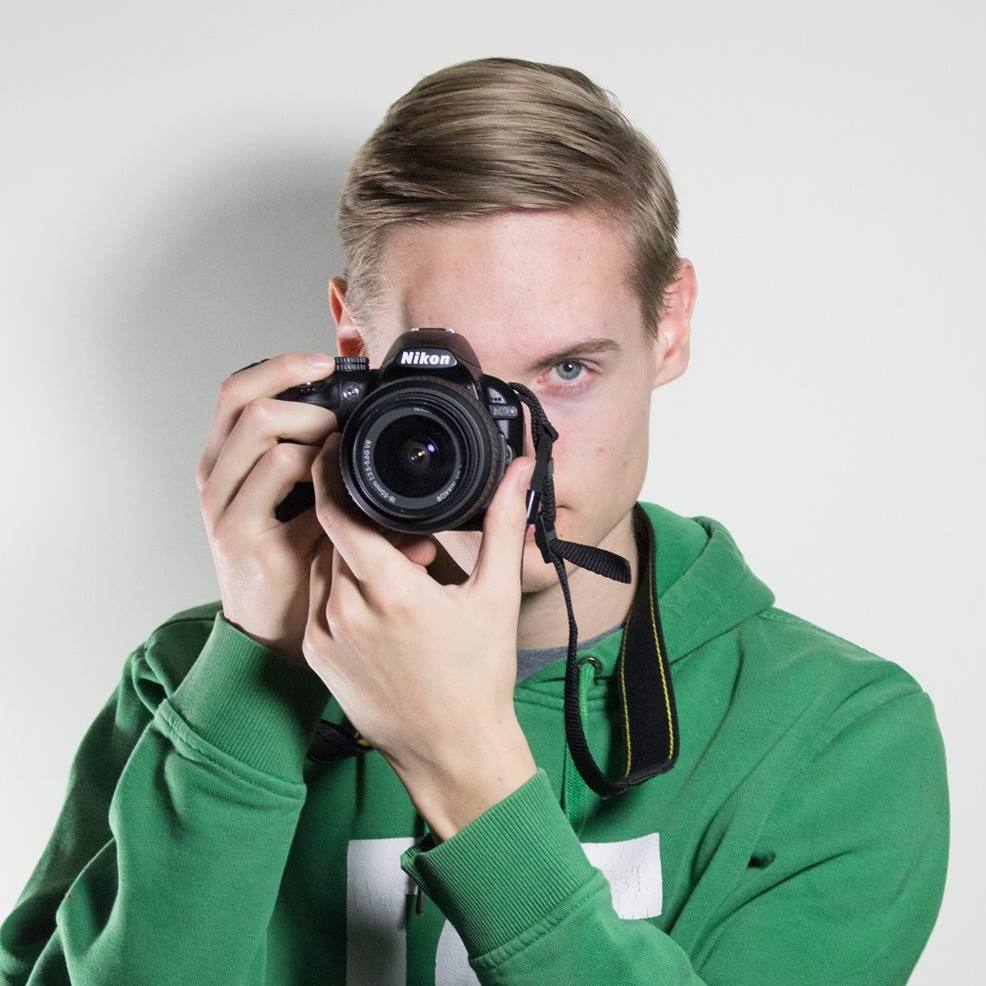
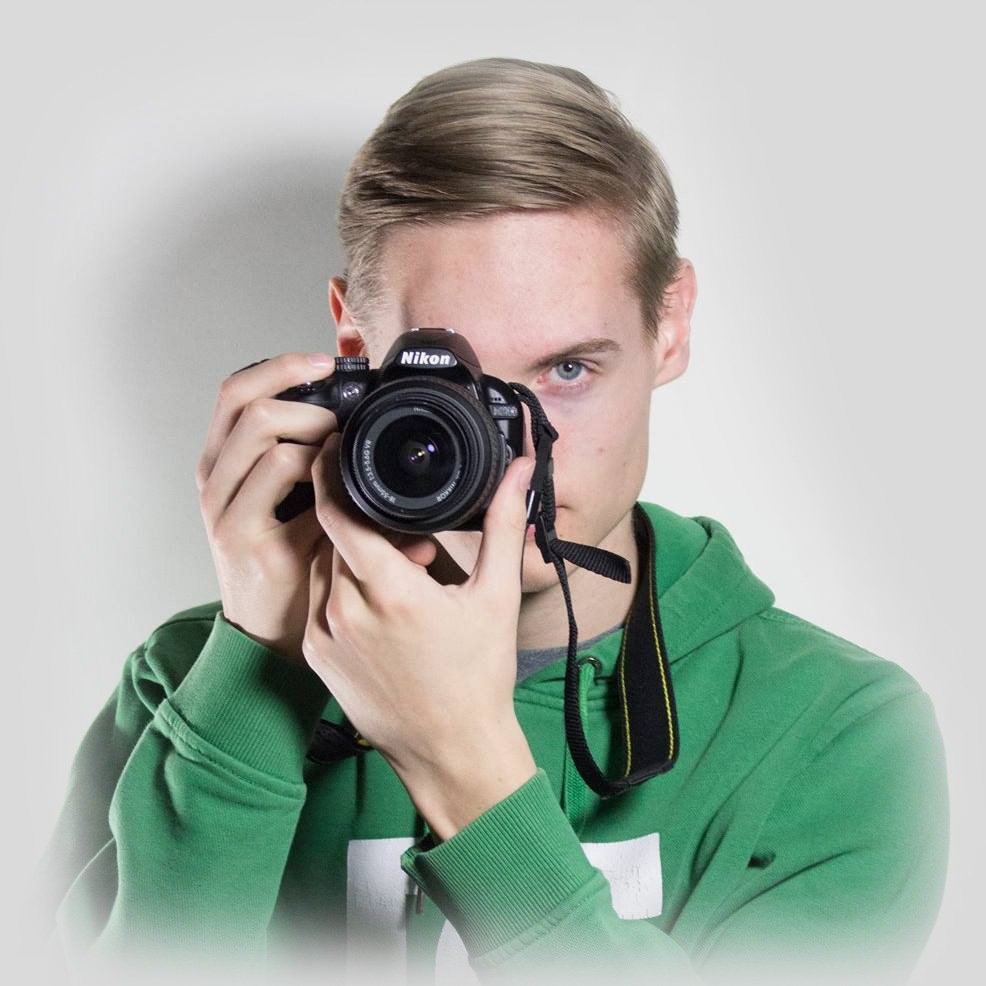
added footer and styling

Changed region(s): [[0.0, 0.6389, 0.9736, 1.0], [0.3955, 0.0609, 0.6085, 0.1217]]

diff --git a/src/partials/subm.vue b/src/partials/subm.vue
@@ -1,10 +1,62 @@
 <template>
   <footer>
-    <div class="left">
-      <img src="../assets/img/profile.jpeg">
-    </div>
-    <div class="right">
-      content here woo
+    <div class="footer-content">
+      <div class="left">
+        <img src="../assets/img/profile.png">
+      </div>
+      <div class="right">
+        <div class="social">
+          <div class="media"><a href="https://github.com/MrMan2247"><img src="../assets/img/github-icon.svg"/></a></div>
+          <div class="media"><a href="https://ca.linkedin.com/in/bailey-cassel-59804481"><img src="../assets/img/LinkedIn_Logo.svg"/></a></div>
+          <div class="media"><a href="https://twitter.com/MrMan2247?lang=en"><img src="../assets/img/twitter-icon.svg"/></a></div>
+        </div>
+      </div>
+      © Bailey Cassel
     </div>
   </footer>
 </template>
+
+<style lang="scss">
+  footer {
+    display: flex;
+    text-align: center;
+    background-attachment: fixed !important;
+    background: url('../assets/img/footer-bg.jpg');
+    padding: 30px 0;
+
+    .footer-content {
+      max-width: 970px;
+      margin: auto;
+      font-family: arial;
+      font-size: 8pt;
+
+      .left {
+        flex: 1 1 50%;
+        text-align: right;
+        padding: 0 30px;
+        padding-bottom: 10px;
+
+        img {
+          max-width: 200px;
+        }
+      }
+      .right {
+        flex: 1 1 50%;
+        align-self: center;
+        padding: 0 30px;
+        padding-bottom: 20px;
+
+        .social {
+          display: flex;
+          flex-wrap: wrap;
+
+          .media {
+            flex: 1 1 100px;
+            max-width: 45px;
+            margin: 0 10px;
+          }
+        }
+      }
+    }
+  }
+</style>

diff --git a/src/assets/scss/sass-only/_app.scss b/src/assets/scss/sass-only/_app.scss
@@ -9,7 +9,7 @@ $serif: droid-serif, Georgia, serif;
 // Define all app base specific settings
 //
 
-$primary: #ee1a3b;
+$primary: #e0c200;
 $secondary: #005696;
 $tertiary: #1d2025;
 
